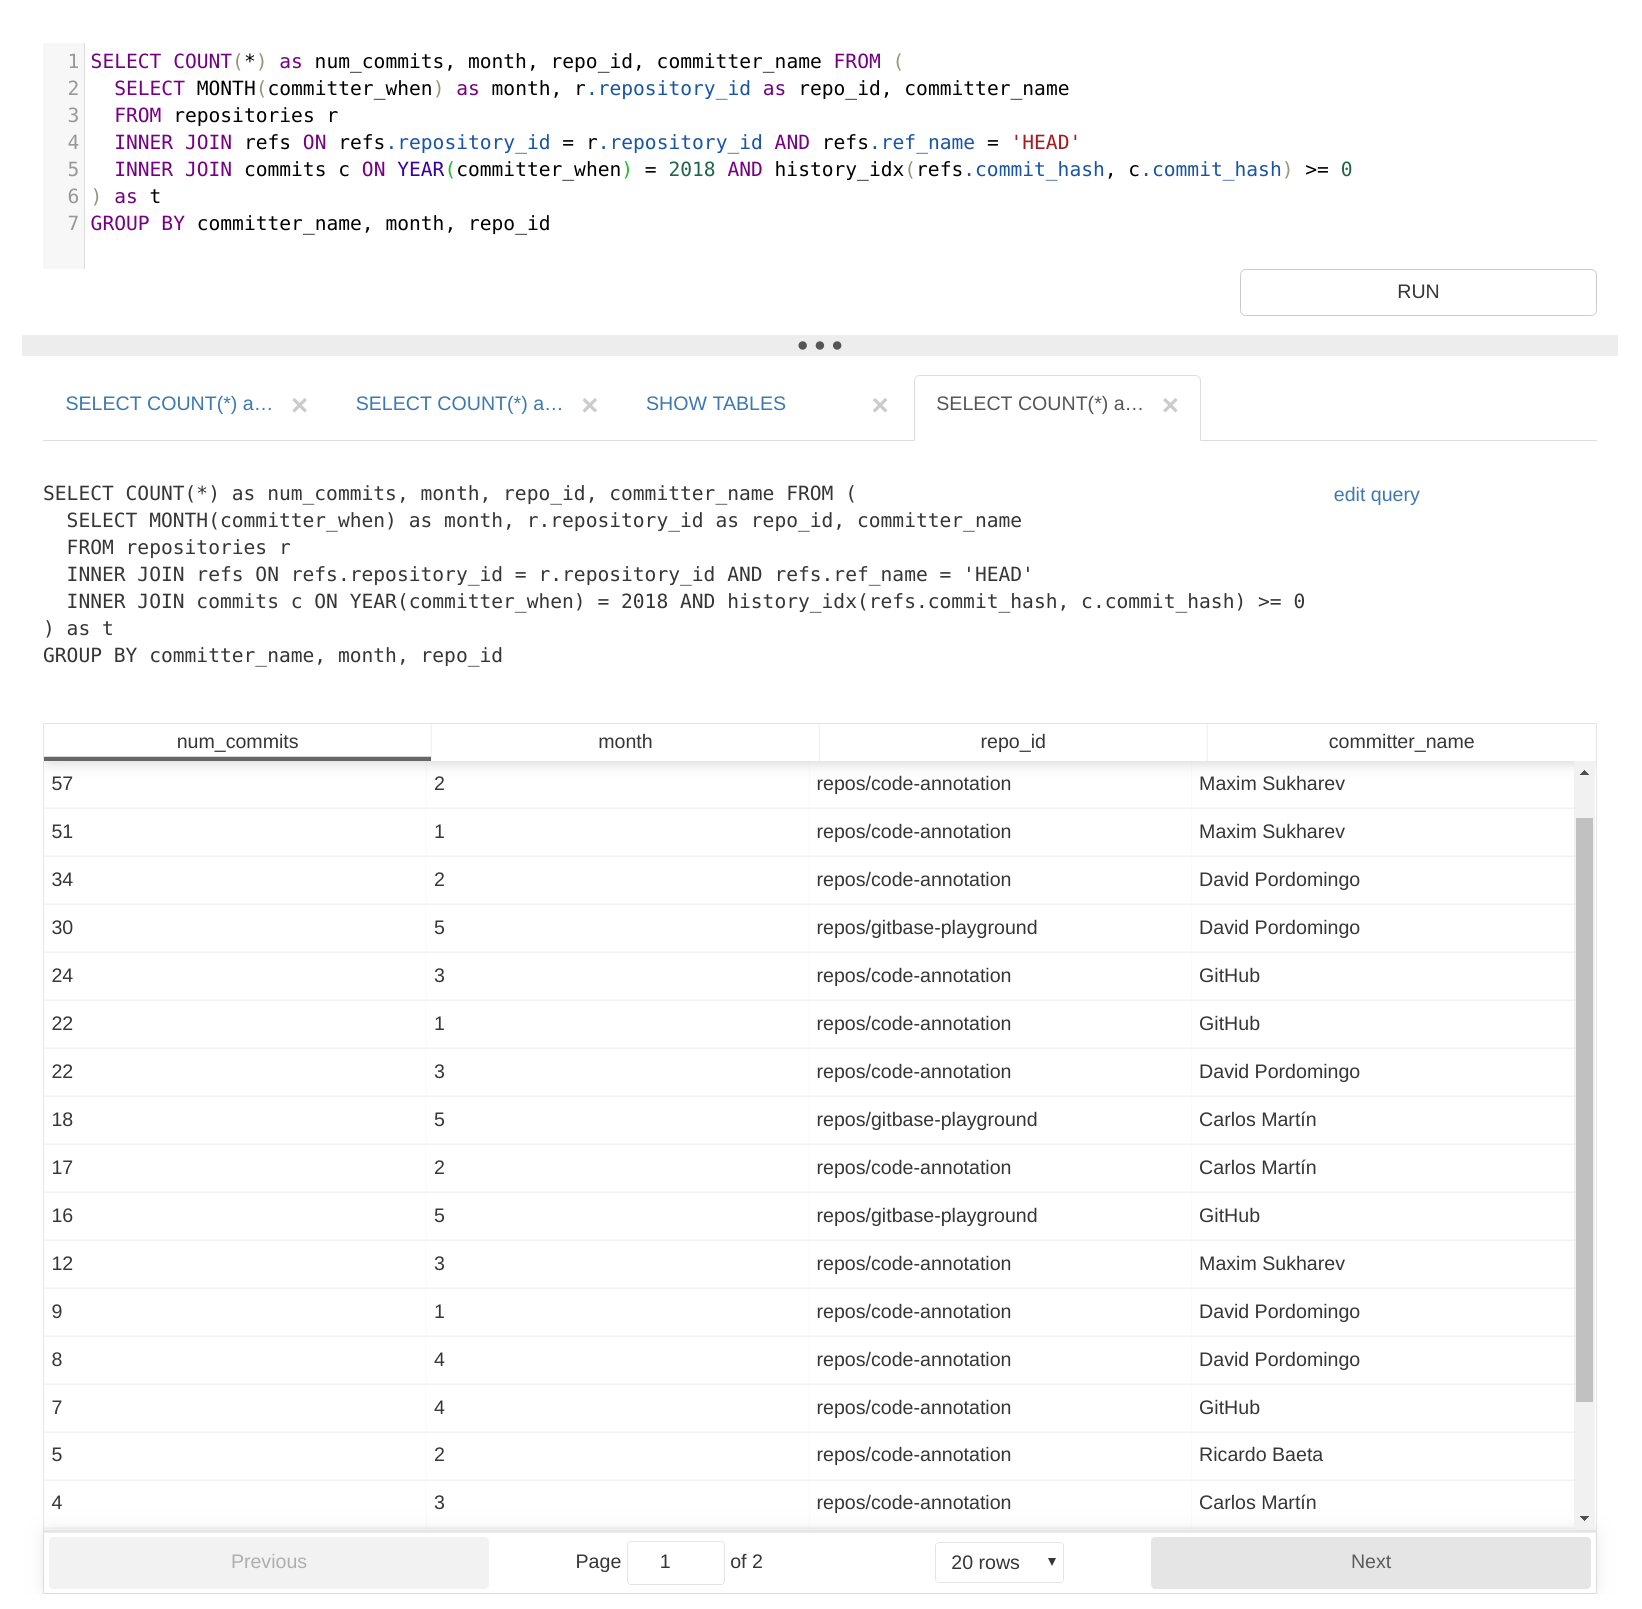
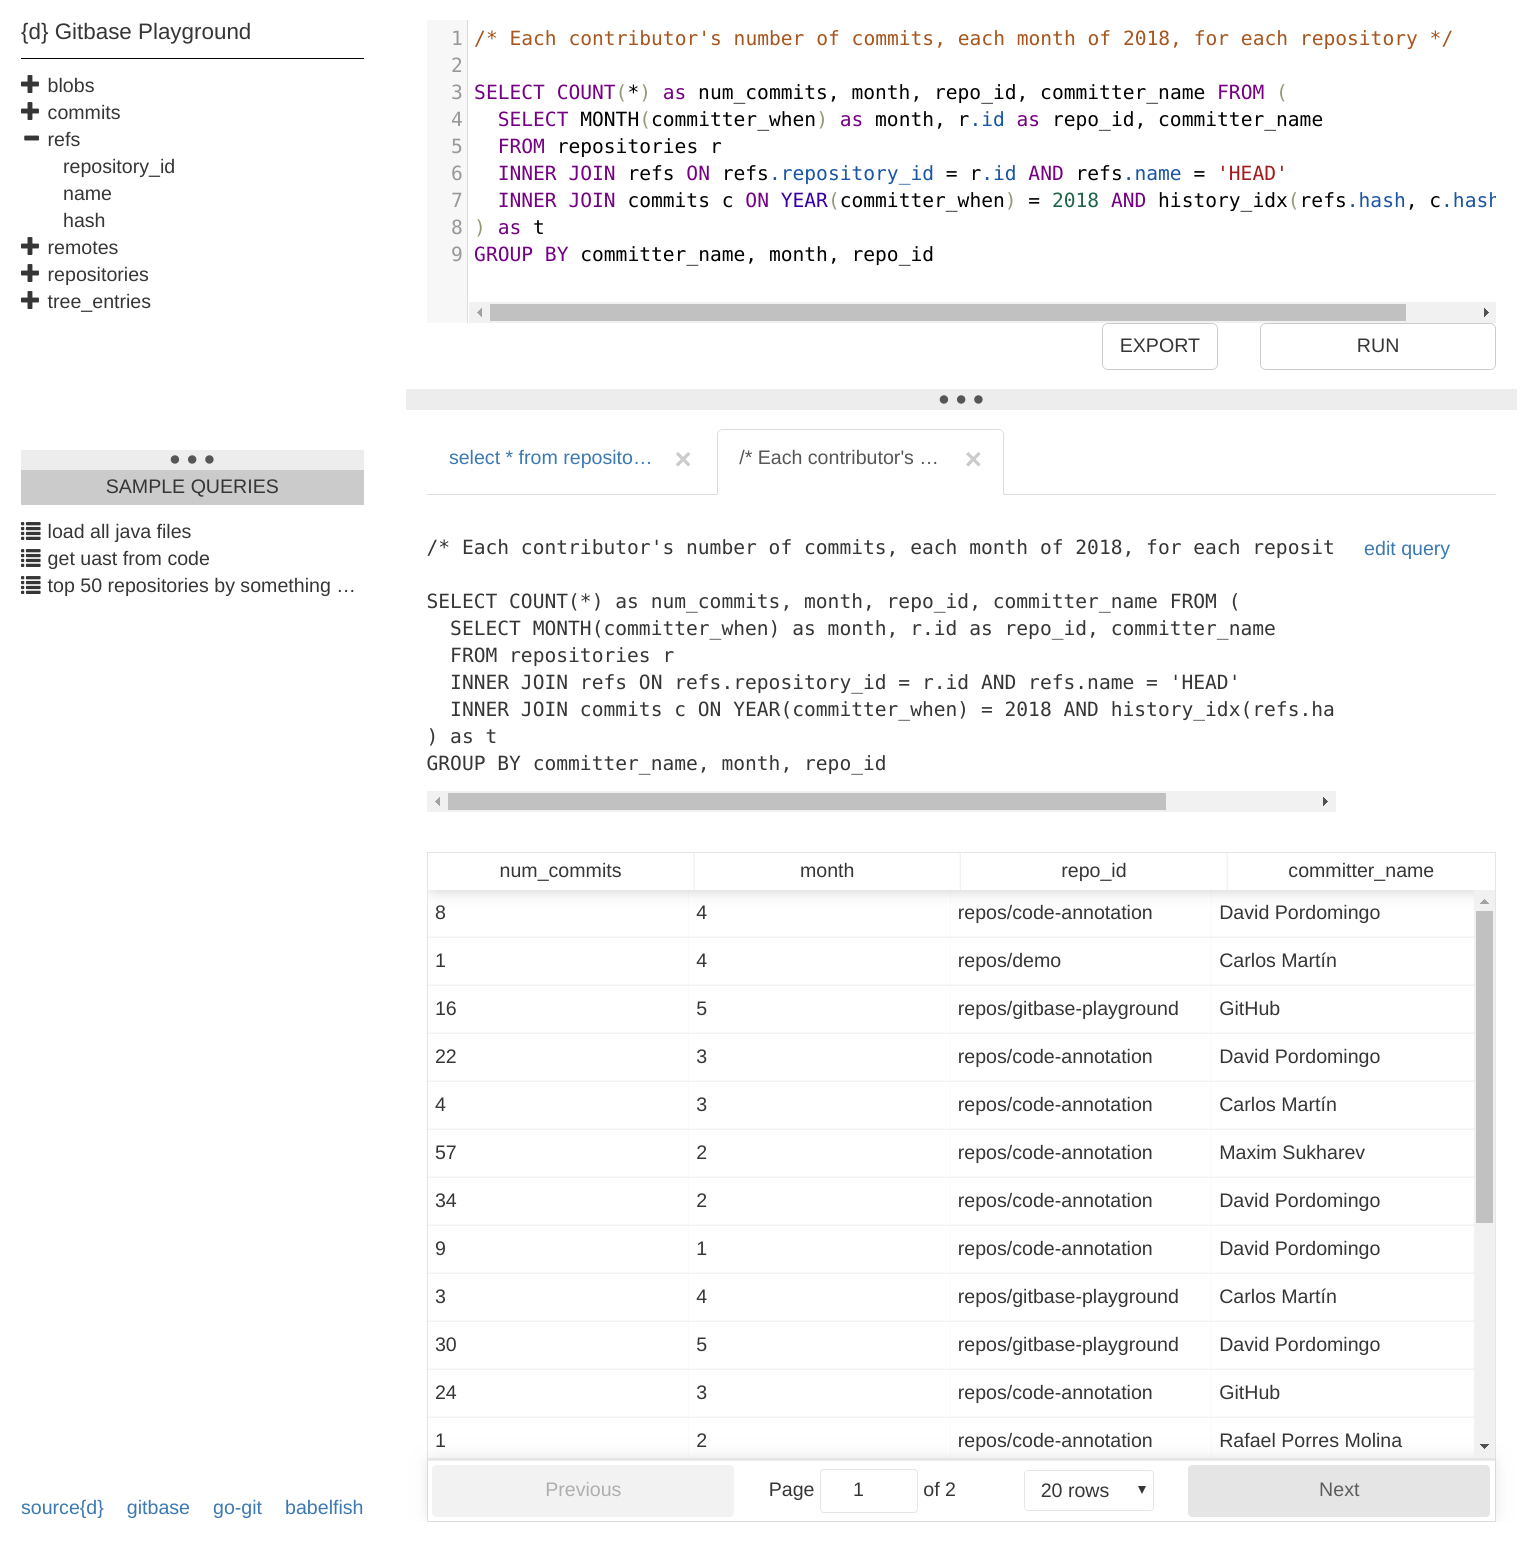
Prepare v0.0.3 release
Updates the screeshot, and changes the default query
to work with gitbase v0.11.0

diff --git a/frontend/src/App.js b/frontend/src/App.js
@@ -12,16 +12,17 @@ class App extends Component {
   constructor(props) {
     super(props);
     this.state = {
-      sql: `SELECT COUNT(*) as num_commits, month, repo_id, committer_email FROM (
-  SELECT MONTH(committer_when) as month, r.repository_id as repo_id, committer_email
+      sql: `/* Contributor's number of commits, each month of 2018, for each repository */
+
+SELECT COUNT(*) as num_commits, month, repo_id, committer_name FROM (
+  SELECT MONTH(committer_when) as month, r.id as repo_id, committer_name
   FROM repositories r
-  INNER JOIN refs ON refs.repository_id = r.repository_id AND refs.ref_name = 'HEAD'
-  INNER JOIN commits c ON YEAR(committer_when) = 2018 AND history_idx(refs.commit_hash, c.commit_hash) >= 0
+  INNER JOIN refs ON refs.repository_id = r.id AND refs.name = 'HEAD'
+  INNER JOIN commits c ON YEAR(committer_when) = 2018 AND history_idx(refs.hash, c.hash) >= 0
 ) as t
-GROUP BY committer_email, month, repo_id`,
+GROUP BY committer_name, month, repo_id`,
       results: new Map(),
       schema: undefined,
-
       // modal
       showModal: false,
       modalTitle: null,
